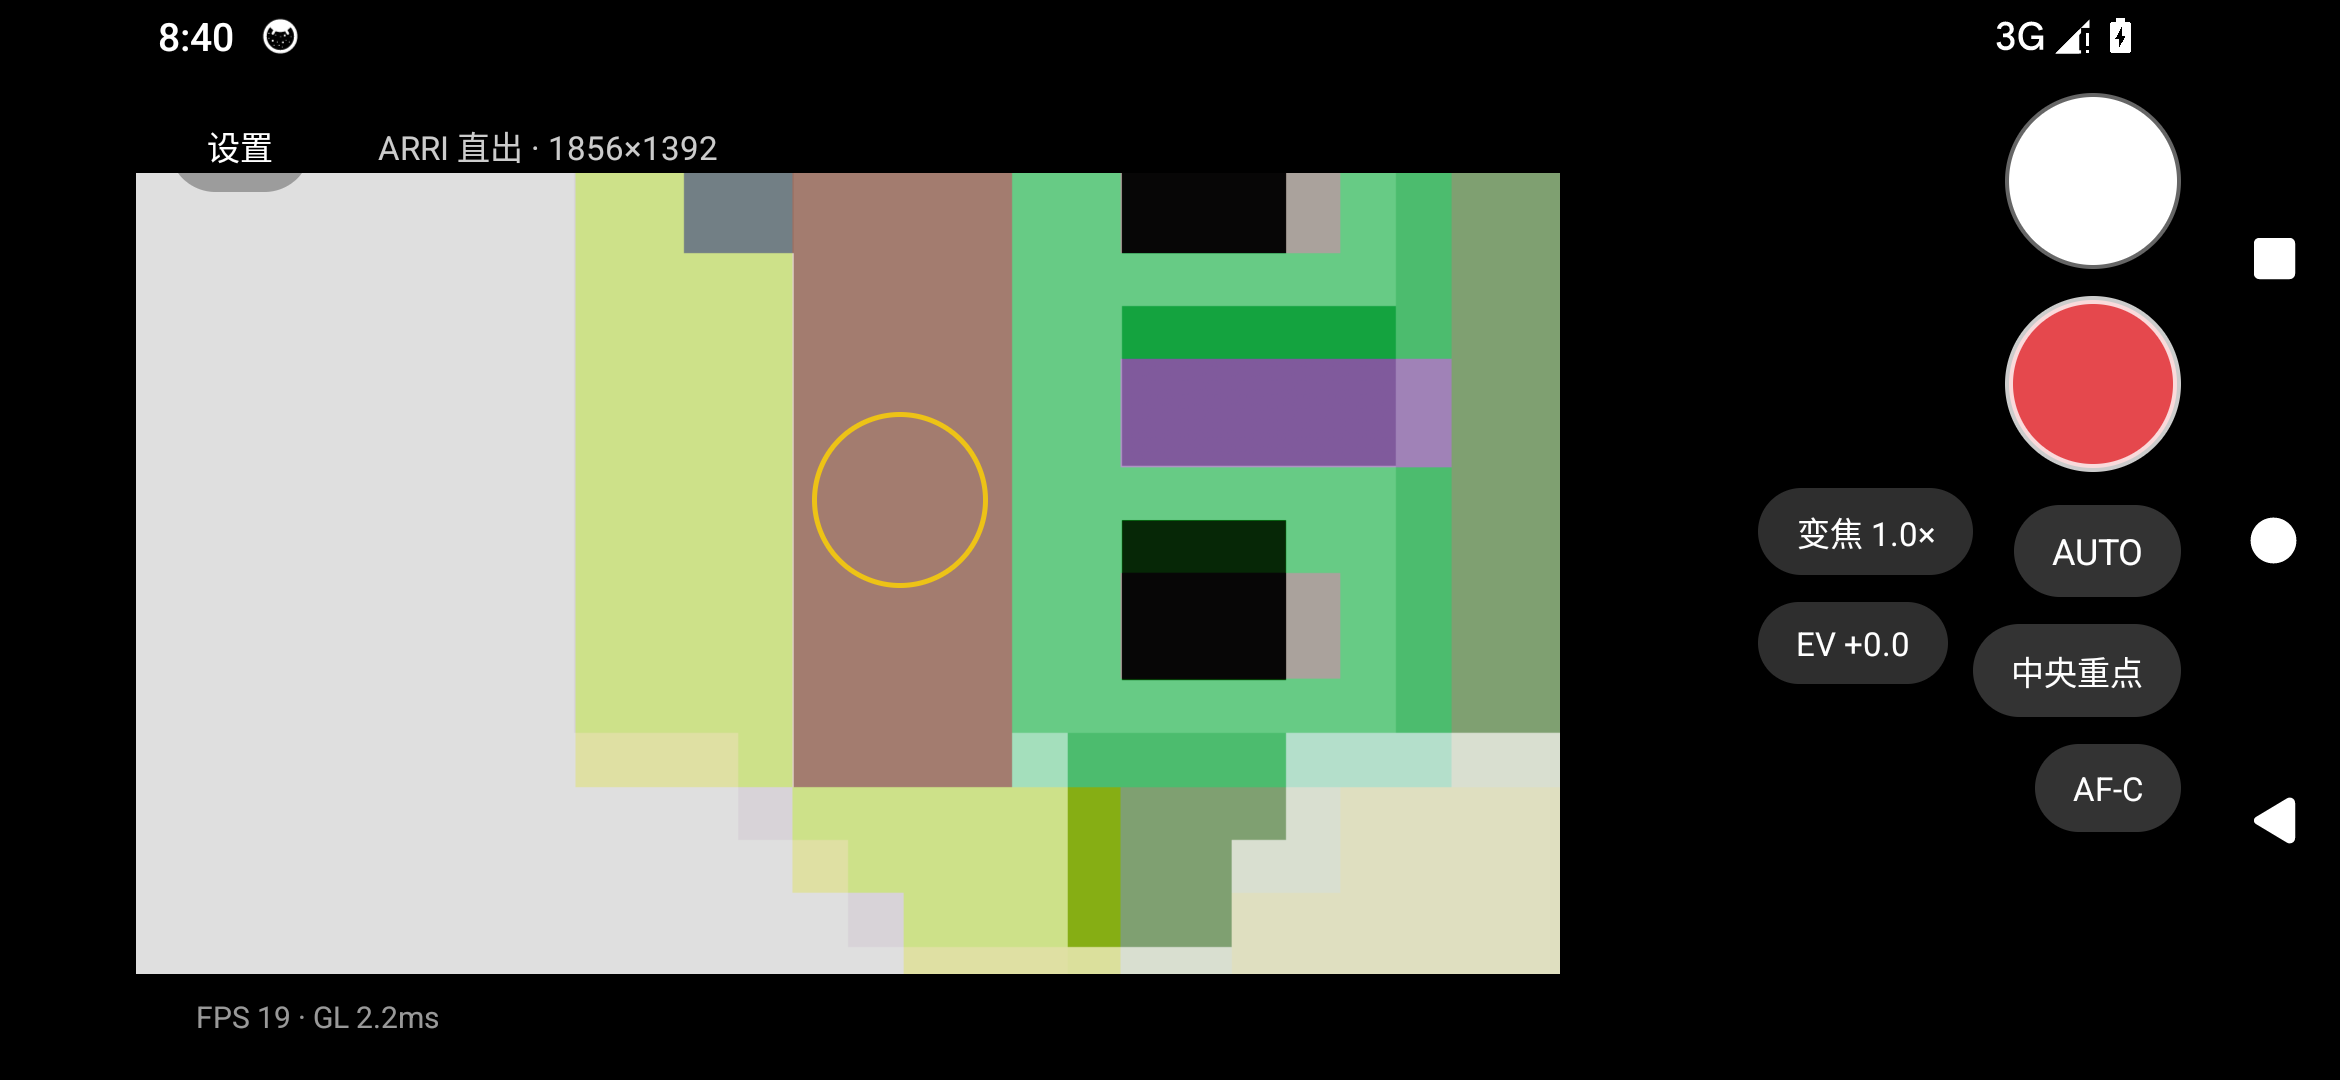
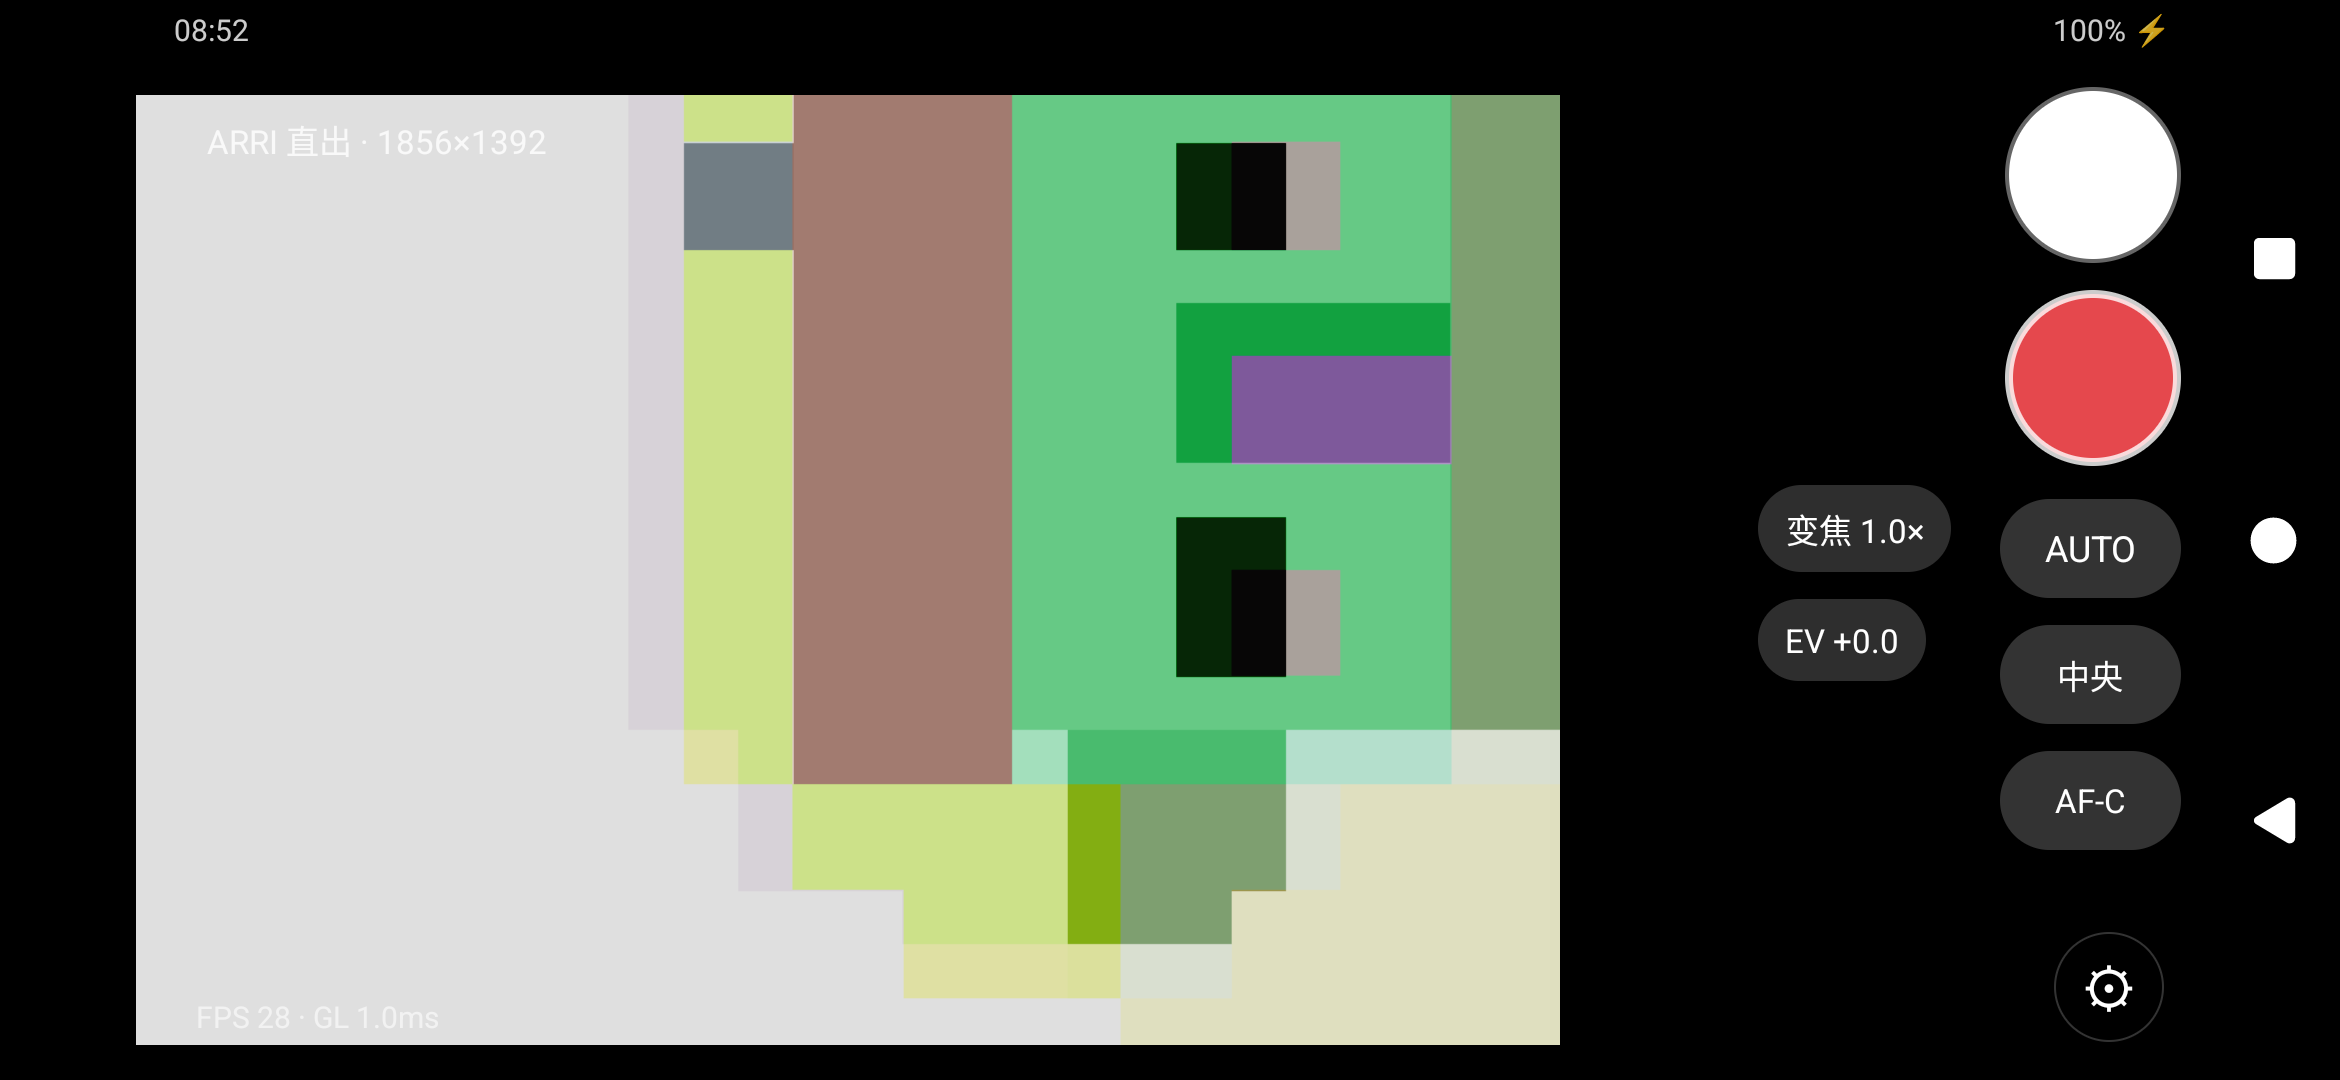
Lume: 自绘窄状态栏（时间/电量）+ 齿轮入口 + 按钮尺寸固定 + 测光改两字

diff --git a/lume/app/src/main/java/com/magirri/lume/MainActivity.kt b/lume/app/src/main/java/com/magirri/lume/MainActivity.kt
@@ -61,6 +61,8 @@ class MainActivity : Activity() {
     private lateinit var focusRing: View
     private var resIndex = 0            // 0=4K 1=1080P 2=720P
     private var fpsIndex = 1            // 0=24 1=30 2=60
+    private lateinit var clockText: TextView
+    private lateinit var batteryText: TextView
 
     /** 当前画幅索引：0=3:2, 1=16:9, 2=2.35:1 */
 
@@ -139,6 +141,14 @@ class MainActivity : Activity() {
 
     override fun onCreate(savedInstanceState: Bundle?) {
         super.onCreate(savedInstanceState)
+        // 隐藏系统通知栏（用自绘的那一条替代）。
+        // 注意：不能在 setContentView 之前碰 window.insetsController —— 那时 decorView 还是 null，会 NPE。
+        window.addFlags(android.view.WindowManager.LayoutParams.FLAG_FULLSCREEN)
+        @Suppress("DEPRECATION")
+        window.decorView.systemUiVisibility =
+            android.view.View.SYSTEM_UI_FLAG_FULLSCREEN or
+            android.view.View.SYSTEM_UI_FLAG_LAYOUT_STABLE or
+            android.view.View.SYSTEM_UI_FLAG_LAYOUT_FULLSCREEN
         lut = Lut3D.parse(assets.open("luts/arri_cam_standard.cube").bufferedReader().use { it.readText() })
         camera = CameraEngine(this)
         recorder = VideoRecorder(this)
@@ -238,9 +248,35 @@ class MainActivity : Activity() {
     }
 
     private fun buildUi() {
+        // 系统通知栏已隐藏，这里自绘一条很窄的：左时间、右电量
         val root = LinearLayout(this).apply {
-            orientation = LinearLayout.HORIZONTAL
+            orientation = LinearLayout.VERTICAL
             setBackgroundColor(Color.BLACK)
+        }
+
+        val topBar = LinearLayout(this).apply {
+            orientation = LinearLayout.HORIZONTAL
+            gravity = Gravity.CENTER_VERTICAL
+            setPadding(dp(14), 0, dp(14), 0)
+            setBackgroundColor(Color.BLACK)
+        }
+        clockText = TextView(this).apply {
+            setTextColor(0xCCFFFFFF.toInt())
+            textSize = 11f
+            isSingleLine = true
+        }
+        batteryText = TextView(this).apply {
+            setTextColor(0xCCFFFFFF.toInt())
+            textSize = 11f
+            isSingleLine = true
+        }
+        topBar.addView(clockText)
+        topBar.addView(View(this), LinearLayout.LayoutParams(0, 1, 1f))
+        topBar.addView(batteryText)
+        root.addView(topBar, LinearLayout.LayoutParams(ViewGroup.LayoutParams.MATCH_PARENT, dp(22)))
+
+        val row = LinearLayout(this).apply {
+            orientation = LinearLayout.HORIZONTAL
         }
 
         // ---------- 左：取景 ----------
@@ -272,31 +308,25 @@ class MainActivity : Activity() {
             FrameLayout.LayoutParams(dp(320), dp(320), Gravity.CENTER)
         )
 
+        // 齿轮放在整屏右下角（面板右下那块留白里），见 setContentView 前
         settingsBtn = TextView(this).apply {
-            text = "设置"
+            text = "⚙"
             setTextColor(Color.WHITE)
-            textSize = 12f
+            textSize = 20f
             gravity = Gravity.CENTER
-            setPadding(dp(14), dp(8), dp(14), dp(8))
-            background = pill(0x4D000000)
+            background = GradientDrawable().apply {
+                shape = GradientDrawable.OVAL
+                setColor(0x4D000000)
+                setStroke(dp(1), 0x33FFFFFF)
+            }
             setOnClickListener { openSettings() }
         }
-        previewBox.addView(
-            settingsBtn,
-            FrameLayout.LayoutParams(
-                ViewGroup.LayoutParams.WRAP_CONTENT, ViewGroup.LayoutParams.WRAP_CONTENT
-            ).apply {
-                gravity = Gravity.TOP or Gravity.START
-                topMargin = dp(12)
-                leftMargin = dp(12)
-            }
-        )
 
         status = TextView(this).apply {
             text = "ARRI 直出 · 就绪"
             setTextColor(0xCCFFFFFF.toInt())
             textSize = 12f
-            setPadding(dp(4), dp(8), dp(14), dp(8))
+            setPadding(dp(14), dp(8), dp(14), dp(8))
         }
         previewBox.addView(
             status,
@@ -305,7 +335,7 @@ class MainActivity : Activity() {
             ).apply {
                 gravity = Gravity.TOP or Gravity.START
                 topMargin = dp(12)
-                leftMargin = dp(84)
+                leftMargin = dp(12)
             }
         )
 
@@ -353,7 +383,7 @@ class MainActivity : Activity() {
             }
         )
 
-        root.addView(
+        row.addView(
             previewBox,
             LinearLayout.LayoutParams(0, ViewGroup.LayoutParams.MATCH_PARENT, 2.2f)
         )
@@ -493,9 +523,7 @@ class MainActivity : Activity() {
         }
         camCol.addView(
             modeBtn,
-            LinearLayout.LayoutParams(
-                ViewGroup.LayoutParams.WRAP_CONTENT, ViewGroup.LayoutParams.WRAP_CONTENT
-            )
+            LinearLayout.LayoutParams(dp(66), dp(36))
         )
 
         // 测光模式：对应 ARRI 曝光表的测光区域（点测 / 中央重点 / 多区）
@@ -514,9 +542,7 @@ class MainActivity : Activity() {
         }
         camCol.addView(
             meterBtn,
-            LinearLayout.LayoutParams(
-                ViewGroup.LayoutParams.WRAP_CONTENT, ViewGroup.LayoutParams.WRAP_CONTENT
-            ).apply { topMargin = dp(10) }
+            LinearLayout.LayoutParams(dp(66), dp(36)).apply { topMargin = dp(10) }
         )
 
         // 对焦模式：AF-S / AF-C / MF
@@ -534,9 +560,7 @@ class MainActivity : Activity() {
         }
         camCol.addView(
             focusBtn,
-            LinearLayout.LayoutParams(
-                ViewGroup.LayoutParams.WRAP_CONTENT, ViewGroup.LayoutParams.WRAP_CONTENT
-            ).apply { topMargin = dp(10) }
+            LinearLayout.LayoutParams(dp(66), dp(36)).apply { topMargin = dp(10) }
         )
 
         // 画幅：3:2 / 16:9 / 2.35:1，循环切换
@@ -604,10 +628,28 @@ class MainActivity : Activity() {
             LinearLayout.LayoutParams(0, ViewGroup.LayoutParams.MATCH_PARENT, 1f)
         )
 
-        root.addView(panel, LinearLayout.LayoutParams(0, ViewGroup.LayoutParams.MATCH_PARENT, 1f))
+        row.addView(panel, LinearLayout.LayoutParams(0, ViewGroup.LayoutParams.MATCH_PARENT, 1f))
+
+        root.addView(row, LinearLayout.LayoutParams(
+            ViewGroup.LayoutParams.MATCH_PARENT, 0, 1f
+        ))
 
         applyMode(CameraEngine.Mode.AUTO, force = true)
-        setContentView(root)
+
+        val container = FrameLayout(this)
+        container.addView(root, FrameLayout.LayoutParams(
+            ViewGroup.LayoutParams.MATCH_PARENT, ViewGroup.LayoutParams.MATCH_PARENT
+        ))
+        container.addView(
+            settingsBtn,
+            FrameLayout.LayoutParams(dp(40), dp(40), Gravity.BOTTOM or Gravity.END).apply {
+                rightMargin = dp(16)
+                bottomMargin = dp(14)
+            }
+        )
+        setContentView(container)
+        hideSystemBars()
+        startStatusTicker()
         waitForFirstFrame()
     }
 
@@ -619,7 +661,7 @@ class MainActivity : Activity() {
             textSize = 12f
             gravity = Gravity.CENTER
             isSingleLine = true          // 「对焦 21cm」这类长文案不折行
-            setPadding(dp(14), dp(7), dp(14), dp(7))
+            setPadding(dp(10), dp(7), dp(10), dp(7))
             // 按钮自带灰色圆角胶囊；面板底是纯黑，两者区分开
             background = pill(0x2EFFFFFF)
             setOnClickListener { if (isEnabled) toggleWheel(kind) }
@@ -676,6 +718,49 @@ class MainActivity : Activity() {
         mfBtn.background = pill(if (openWheelKind == MF) 0x59FFFFFF else 0x2EFFFFFF)
     }
 
+    /** setContentView 之后才能真正操作 insets */
+    private fun hideSystemBars() {
+        if (android.os.Build.VERSION.SDK_INT >= android.os.Build.VERSION_CODES.R) {
+            try {
+                // 不要 setDecorFitsSystemWindows(false)：那样内容会伸到导航栏底下，
+                // 横屏时右侧按钮会被裁掉
+                window.insetsController?.let {
+                    it.hide(android.view.WindowInsets.Type.statusBars())
+                    it.systemBarsBehavior =
+                        android.view.WindowInsetsController.BEHAVIOR_SHOW_TRANSIENT_BARS_BY_SWIPE
+                }
+            } catch (_: Exception) {
+            }
+        }
+    }
+
+    /** 自绘状态条：时间 + 电量，20 秒刷一次 */
+    private fun startStatusTicker() {
+        val tick = object : Runnable {
+            override fun run() {
+                clockText.text = java.text.SimpleDateFormat(
+                    "HH:mm", java.util.Locale.getDefault()
+                ).format(java.util.Date())
+                batteryText.text = batteryLabel()
+                ui.postDelayed(this, 20_000)
+            }
+        }
+        ui.postDelayed(tick, 0)
+    }
+
+    private fun batteryLabel(): String {
+        val i = registerReceiver(
+            null, android.content.IntentFilter(android.content.Intent.ACTION_BATTERY_CHANGED)
+        ) ?: return ""
+        val level = i.getIntExtra(android.os.BatteryManager.EXTRA_LEVEL, -1)
+        val scale = i.getIntExtra(android.os.BatteryManager.EXTRA_SCALE, -1)
+        if (level < 0 || scale <= 0) return ""
+        val pct = level * 100 / scale
+        val charging = i.getIntExtra(android.os.BatteryManager.EXTRA_STATUS, -1) ==
+                android.os.BatteryManager.BATTERY_STATUS_CHARGING
+        return if (charging) "$pct% ⚡" else "$pct%"
+    }
+
     /** 等取景器真正出第一帧，再把启动 logo 淡出 */
     private fun waitForFirstFrame() {
         val start = System.currentTimeMillis()
@@ -722,12 +807,10 @@ class MainActivity : Activity() {
     private fun openSettings() {
         if (::settingsPanel.isInitialized && settingsPanel.visibility == View.VISIBLE) {
             settingsPanel.visibility = View.GONE
-            settingsBtn.text = "设置"
             return
         }
         if (!::settingsPanel.isInitialized) buildSettingsPanel()
         settingsPanel.visibility = View.VISIBLE
-        settingsBtn.text = "关闭"
         refreshSettings()
     }
 
@@ -1379,7 +1462,7 @@ class MainActivity : Activity() {
 
         /** ARRI 曝光表的测光区域：Spot / Center / Multi */
 
-        private val METER_NAMES = listOf("点测", "中央重点", "多区")
+        private val METER_NAMES = listOf("点测", "中央", "多区")
 
 
 
